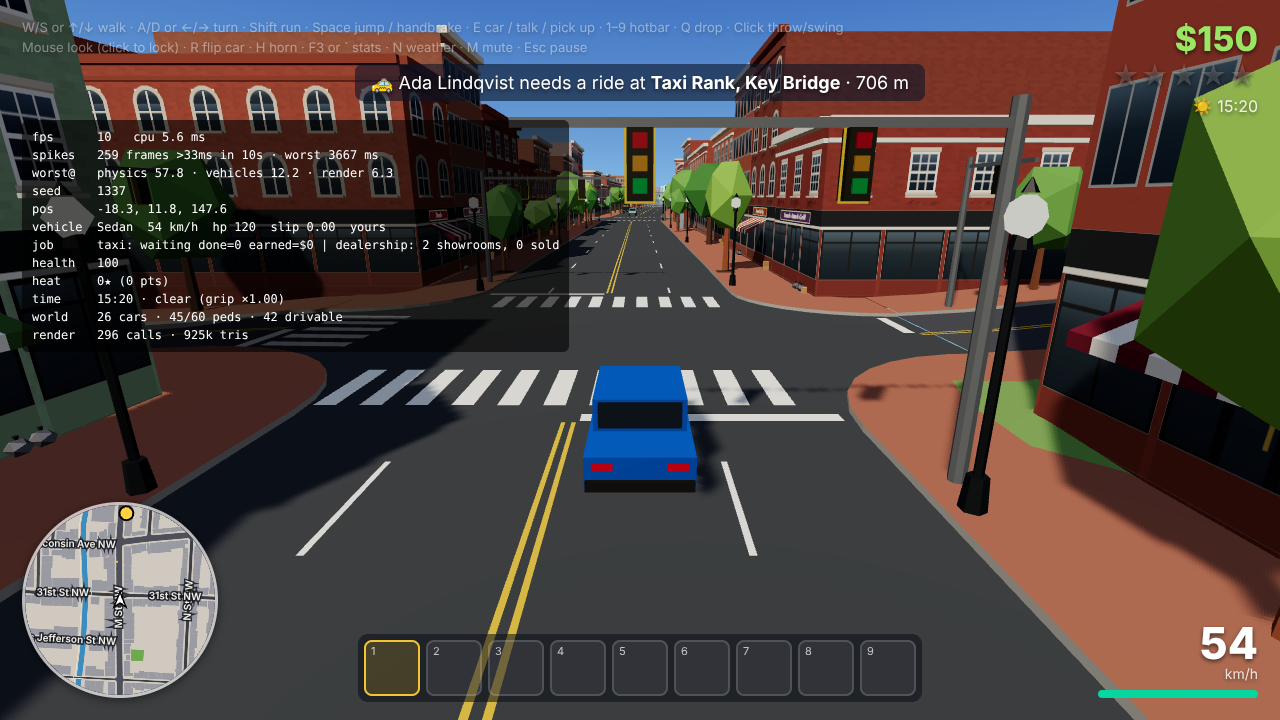
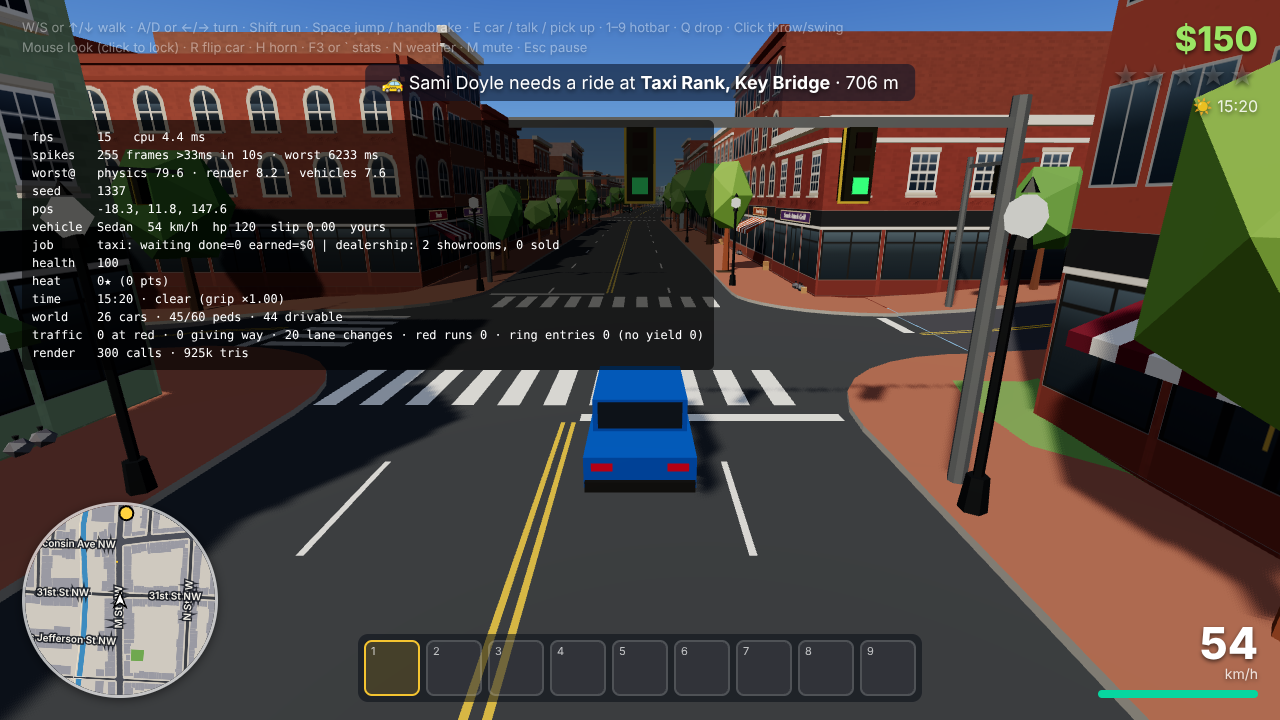
DEVLOG and screenshots: traffic and police on Georgetown's road graph (step C1)
Claude-Session: https://claude.ai/code/session_012Y9CQc2geJ2jhDimLjKczQ

diff --git a/DEVLOG.md b/DEVLOG.md
@@ -288,3 +288,100 @@ Format: date · what changed · what to test · known issues.
       - **Trees on footpaths:** trees and lamps stand on the footpath centre lines on Dumbarton St and Potomac St, blocking 114 walk links for a person.
       - **Low bridges:** the camera goes inside the deck of the low canal bridges when you walk under them.
     - **Merge note:** merging `m3-geo-art-review` conflicts in `georgetownWorld.ts` (keep both `droppedBuildings` and `audit`; that branch already adds its street-clipped drops to the same set) and in DEVLOG.md.
+
+
+- **M3 traffic and police on Georgetown's road graph (step C1, branch `m3-geo-traffic`, on top of `m3-geo-citymap`):** traffic now follows junction rules, keeps to its lanes, changes lane before a turn and follows the player around; police dispatch and search on the directed graph. Both maps (`?map=grid` keeps its scenarios passing).
+  - **Junction control (`src/systems/junctions.ts`, new), built once per map from the CityMap:**
+    - **Moves and lane discipline:** every lane-to-lane move through every node, typed straight / right / left / U-turn. Right turns go kerbside lane to kerbside lane, left turns inside lane to inside lane, straight on keeps to the lane that carries on. Parking lanes on multi-lane roads are not traffic lanes. This also stops cars cutting across lanes inside junctions.
+    - **Conflicts:** two moves conflict if their junction curves come within `traffic.conflictDist` (2.9 m) or they merge into one lane. A car never starts across a junction while a conflicting move is in it, or while a car given the go is within `boxReserveTime` of its line on one, or while its exit lane is queued (`exitSpace`).
+    - **Control per node:** signals, all-way stop, priority (different road classes: `traffic.classRank`, the lower gives way), all-way give way (equal roads: a 0.9 s pause, then first come, first served), ring, dead end, pass-through. Georgetown: 57 signals, 53 stop, 3 priority, 3 all-way, 8 ring, 23 dead ends, 19 pass-through. Grid: 60 all-way, 10 priority (the bay boulevard).
+    - **Signals (`TUNING.signals`):** head-on approaches share a phase; the phase with the junction's biggest road gets the long green. Actuated: detectors at the stop lines (AI cars and your car) call a phase; green lasts at least 6 s, is held while traffic keeps coming (up to 18 s, 10 s for side phases) or while nobody waits elsewhere; then amber 3 s and all-red 1.5 s. The two K St mid-block crossings keep a fixed walk phase. (Fixed-time cycles had side streets waiting 33 s at K St / Whitehurst.)
+    - **Amber:** asked again every check while approaching. A car goes only if it reaches the line before red (`amberMargin`) or can't stop where waiting cars stand. On red, anyone who can still stop does (`redCommitSpeed`). A left turner that waited at the line clears on amber.
+    - **Waiting position:** front bumper `stopBehindLine` behind the line, further back where another approach's curve passes close (`stopClearance` 2.3 m, at most `stopBackMax` 8 m). At tight Georgetown junctions, turning cars were clipping waiting ones.
+    - **Roundabout:** entering cars yield to circulating cars heading for their entry (closer than 34 m along the ring and under 3.6 s away, or within 10 m), except ones leaving there on a clear move. Circulating cars never wait at the ring's nodes, run at most `ringSpeed` 8.5 m/s, and go round again rather than exit into a queue. The data flags the circle's entries as signals; the ring rule wins (`props.ts` already drew no heads there).
+  - **Signal lights (`src/systems/signalHeads.ts`, new):** the world already drew poles and heads (`props.ts`). Their lenses are now dark glass, and one InstancedMesh of small glowing squares lights the lens each approach is shown. Only heads whose light changed are rewritten, without allocation; 1 extra draw call. `GeoWorld.signalHeads` exports each head's place, yaw, junction and arm.
+  - **Traffic (`src/systems/traffic.ts`):**
+    - **Planning:** on entering a lane, a car picks a random allowed move at the next junction. If that move leaves from another lane, it changes lanes first (`laneChangeMinRoom`, `laneChangeGapAhead/Behind`, sideways at `laneChangeRate`), else it picks a move its own lane may make.
+    - **Approach:** it asks `junctionHold` within braking distance + `decideDist`, then brakes (`approachDecel`) for its waiting spot or for the curve's speed (`turnLatAccel`, `turnSpeedMin`).
+    - **Pass-through nodes:** where the lanes shift sideways, the car drifts across, not round a curve over no distance.
+    - **Map edges:** dead ends within `mapEdgeRange` of the map's edge are roads leaving it, so cars drive off there (out of sight) instead of U-turning.
+    - **Box nudge:** a car stuck in a junction for `boxNudgeTime` stops being held by AI cars not on its own way out.
+  - **CityMap:** `LaneEdge.left` / `right` (same from, to and road, lane ± 1), filled by `linkLaneNeighbours` in both maps and checked by `validateCityMap`. `RoadNode.stop` added (the grid sets false).
+  - **Population (`src/systems/trafficPopulation.ts`, new):**
+    - **Count:** `traffic.countByQuality` gives low 18 / medium 26 (as M2) / high 34 cars. All 34 are built at boot, and the extras wait out of the world. The pause-menu switch takes effect live.
+    - **Moving cars:** these cars are moved, at most one per frame, to a lane 110–300 m from the player:
+      - cars more than `despawnRadius` 340 m from the player
+      - stranded cars (shoved off the road, gridlocked, or driven off the map)
+    - **Where they go:** the lane is picked by length × `densityByClass`. It is never in sight (view cone plus one ray against buildings and hills) and never within `spawnClearance` of another car, and the car starts already moving.
+    - **Stranded in sight:** a car stranded in sight is moved after 50 s anyway.
+  - **Police (`src/systems/police.ts`):**
+    - **Dispatch:** onto a traffic lane about `spawnDistance` away, behind the camera when possible, never in sight, and with a directed route to your last known lane.
+    - **Search:** once there with no sight of you, they cruise to lanes within `searchRadius` 160 m of it.
+    - **Direct chase:** they drive straight at you only within `directChaseLevelGap` 3 m of your height.
+    - **Sight rays:** these reuse one Ray instead of a new one per check.
+    - **Losing them:** unchanged.
+  - **Audit (`src/systems/trafficAudit.ts`, new):**
+    - **Always on:** signal crossings, red-light runs, ring entries and entries that did not yield, lane changes, recycles, respawns, cars driven off the map.
+    - **With `w.trafficSim.measure` on (tests):** a per-step check of every AI car:
+      - against its lane
+      - off its intended path (beyond a lane change's offset)
+      - off its level
+      - AI cars overlapping
+      - still for more than 20 s
+      - stopped on the ring
+    - **F3:** a new traffic line (at red, giving way, lane changes, red runs, ring entries).
+  - **New scenario `geodrive`** (`MAP=georgetown node scripts/shot.mjs x geodrive`):
+    - **The drive:** your car drives Key Bridge → M St east → Pennsylvania Ave → once round Washington Circle (outer lane) → K St west to Thomas Jefferson St (3.39 km). It is one teleport at the start, then a pure-pursuit autopilot pressing only W/A/S/D/Space.
+    - **Driving rules:** it takes the inside lane where it may and changes lanes along the road where it must. It stops for red lights and at stop signs, yields entering the circle and keeps its distance.
+    - **What it measures:** the route, everything above, an independent check of every AI car's lane-to-lane moves, CPU per frame and the traffic / police profiler sections.
+    - **Screenshots:** `28-traffic-{keybridge,mst,signals,circle}`.
+  - **Other scenario changes:**
+    - `mapcheck`: a lane change is not a choice, off-lane is measured beyond the lane-change offset, and the followed car is kept.
+    - `geoplay`: places its ring cars with `__ocTraffic.placeOnEdge`.
+    - **Test hooks:** `window.__ocTraffic`, `w.trafficSim`, `w.junctions`.
+  - **Test:** `npm run build`, then `node scripts/shot.mjs x <scenario>` (`MAP=georgetown` for Georgetown). All runs below exited 0 with a clean console.
+    - **geodrive, final code:**
+      - The route was completed in 401 s with no damage and no red-light runs by your car.
+      - AI cars:
+        - 0 wrong-way moves, and 0 illegal moves out of 579 checked.
+        - 0 red-light runs out of 340 signal crossings.
+        - 0 of 18 circle entries failed to yield; 0 stops on the ring.
+        - 2 cars still for more than 20 s, both at red lights (longest 22.6 s, at the 3-phase signals at I St / 24th St / New Hampshire Ave and at K St / Whitehurst).
+        - 1.26 m at most off their path.
+        - 0 AI collisions.
+        - 1 car off its level (see known issues).
+        - 72 lane changes.
+      - Profiler, unthrottled: traffic 0.18 ms per frame, police 0.05, traffic-ctl 0.01.
+    - **geodrive, earlier runs:** two runs on the same rules (before the last steering fix) took 414 and 464 s. They had 0 red-light runs out of 339 and 386 crossings, 0 of 24 and 0 of 33 circle entries failing to yield, 2 and 8 AI collisions, and 1 and 4 cars still for more than 20 s not at a red light. The second run's wrong-way move (a car that pulled up past its lane's end and steered back to it) is what the last fix cured.
+    - **Georgetown:**
+      - mapcheck: 4 of 4 runs passed. Each made 30 choices with 0–1 recycles and 0.42–1.23 m off lane.
+      - geoplay: 6 cars flowing round the circle at 31 km/h; police first saw you at 22–29 s and you lost them by 47–48 s; the attribution and quality switch are fine.
+      - Others: taxi (3 of 3 fares), theft (unseen: 0 stars; witnessed: 1 star, 2 calls), witness, police (no stars, as on C0: no witness called), crashspikes.
+    - **Quality presets:** traffic switches between 18, 34 and 26 cars live.
+    - **Grid:** traffic2, police (seen at 7–13 s, lost by 45–60 s), witness, gate2, crashspikes and mapcheck pass (30 choices, 0 jumps, 0.15–0.65 m off lane).
+    - **handling (grid):** the runs that got into the car gave numbers identical to the C0 build's, every snapshot. 2 of 4 runs on this branch never got into the car: the prompt was empty with no person, item or other car near, which means the game hadn't started yet or the player was down. I didn't confirm which. The traffic now gathers round the player, who stands in a live lane of the boulevard in that test.
+  - **Performance against M2 (529a13c):** 4x CPU throttle, Medium, 3 interleaved rounds, using the C0 reviewer's perfab2 method. The machine was shared at load average 13–16 on 4 cores, so frames over 33 ms show up in every build, M2 included.
+
+    | CPU ms per frame, no render | M2 grid | C0 Georgetown | this branch, Georgetown | this branch, grid |
+    |---|---|---|---|---|
+    | median on foot | 5.9–6.4 | 6.4–8.6 | 7.4–7.6 (one run 1.9, an outlier) | 5.2–6.0 |
+    | median driving | 5.8–6.3 | 7.2–10.1 | 8.5–9.2 | 5.1–6.0 |
+    | traffic on foot / driving | 0.43–0.82 / 0.61–1.11 | 0.55–0.75 / 0.51–0.75 | 0.55–0.69 / 0.66–0.77 | 0.54–0.86 / 0.66–1.46 |
+    | traffic-ctl (new: population, signal lights) | – | – | 0.07–0.11 | 0.07–0.10 |
+    | police section (witnesses, police, health) | 0.24–0.35 | 0.19–0.52 | 0.18–0.28 | 0.19–0.95 |
+    | physics on foot | 2.7–2.9 | 4.2–5.8 | 4.0–4.3 | 2.4–3.0 |
+    | frames over 33 ms per 600, on foot | 8–16 | 5–14 | 6–12 | 1–10 |
+    | garbage per frame on foot | 65–70 KB | 65–67 KB | 65–71 KB | 57–62 KB |
+    | draw calls / triangles | 135–151 / 188–193k | 638–643 / ~1.0M | 626–635 / ~1.0M | 161–190 / 192–195k |
+
+    - **Result:** traffic and police CPU is the same as before within the noise. Georgetown as a whole is still well above M2 (physics, draw calls and triangles from the world, as reported in C0). Software GL gives no fps figure.
+  - **Known issues:**
+    - **Pennsylvania Ave bridge, east deck end (473, 233):** a kerb corner stands about 1 m into the eastbound kerbside lane 229. AI cars there get thrown up 2.5 m (the one "off its level" per run), and your car stalls on it in that lane. This is world geometry (the C0 builder listed it); the autopilot keeps to the inside lane there.
+    - **Washington Circle's K St entry (849, 447):** the K St lane is 25 m long, too short to wait clear of the ring's curve. Circulating cars clip cars waiting there (5 of the 8 collisions in one run, 0 in the final run).
+    - **3-phase signals:** at 5-arm junctions, a side road can wait just over 20 s at red: 22.6 s at most, seen at I St / 24th St / New Hampshire Ave and at K St / Whitehurst.
+    - **Other collisions:** in tight turns and on the Rock Creek Parkway under the bridges (static geometry in the lanes, as C0 reported), 0–8 AI collisions in 6–8 minutes of driving.
+    - **M St:** effectively one traffic lane each way, since C0 made the kerbside lane the parking lane, so M St has no lane changes. Lane changes happen on Key Bridge, Pennsylvania Ave, K St, the freeway, the parkway and L St.
+    - **Key Bridge / M St / Whitehurst Freeway (node 5):** not signalised in the data, so it runs as an all-way give way. It is a busy junction for that.
+    - **Sparse traffic:** 26 cars around the player (the M2 budget) look thin on Georgetown's longer streets, and `28-traffic-circle` caught few cars on the circle.
+    - **Spikes:** unthrottled frames over 33 ms land in random sections (physics, peds, hud, traffic), on a machine at load 12–16. The interleaved A/B shows them in M2 as well, so they can't be pinned on traffic here. This needs a quiet machine.
+    - **Gaps:** traffic doesn't pull over for police, and people don't obey signals.
